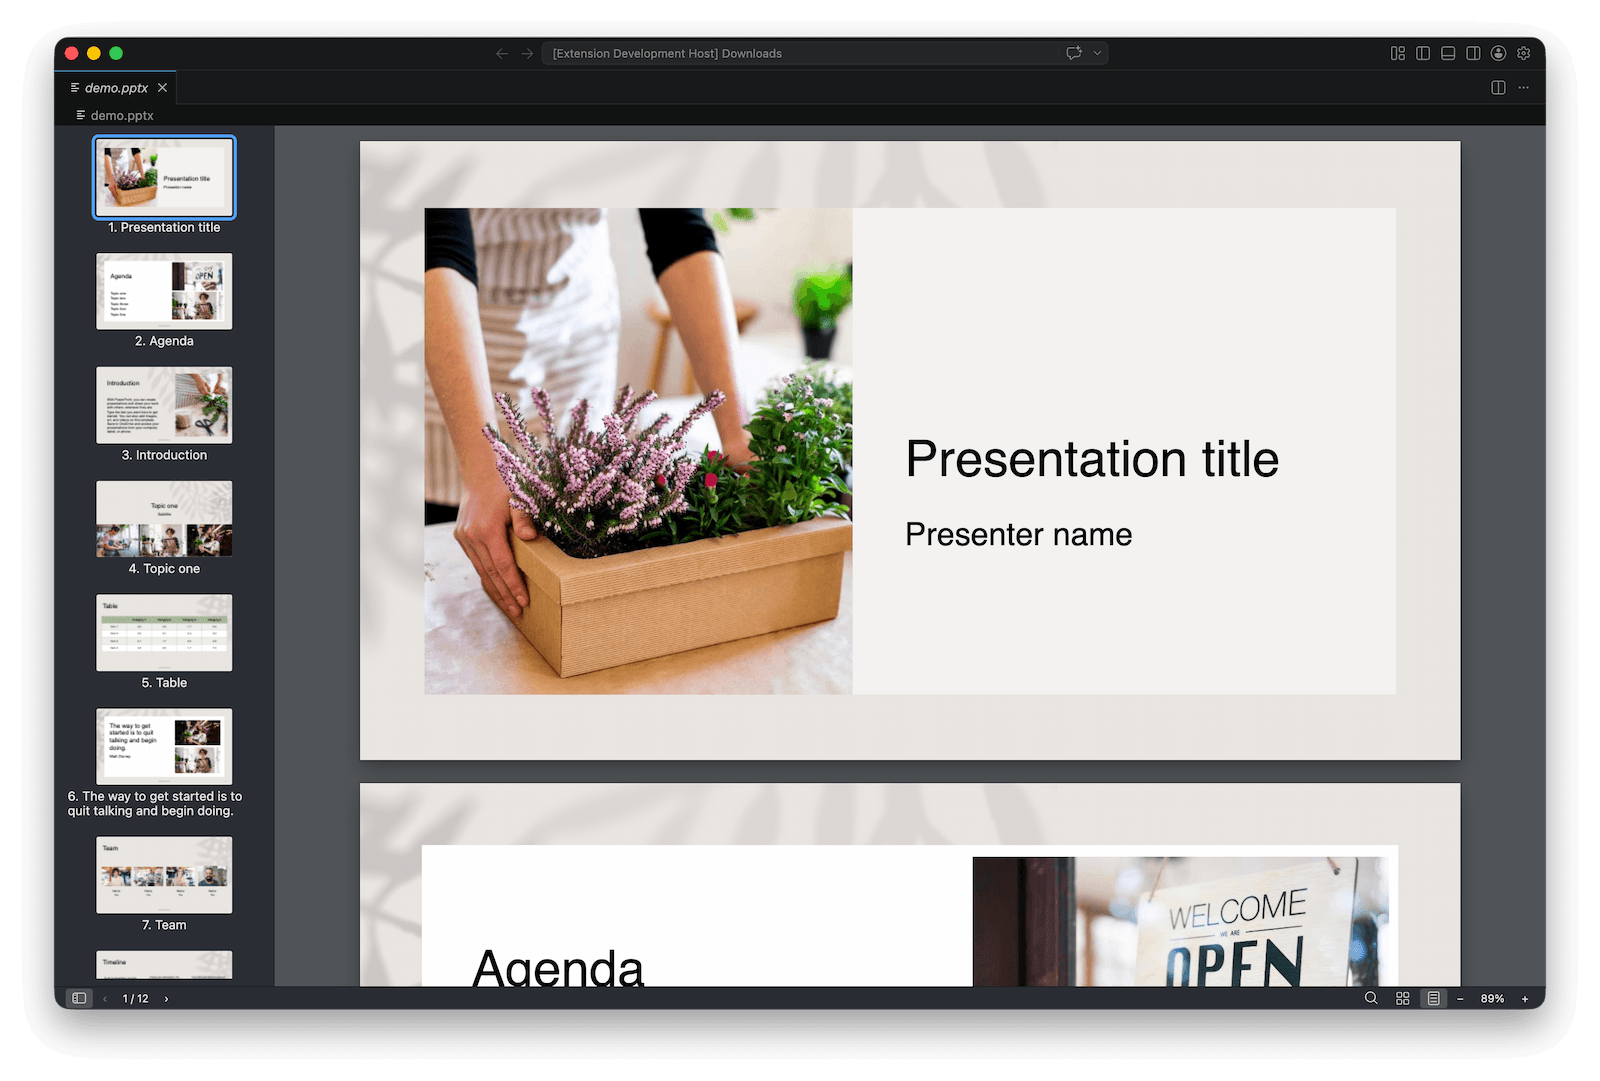
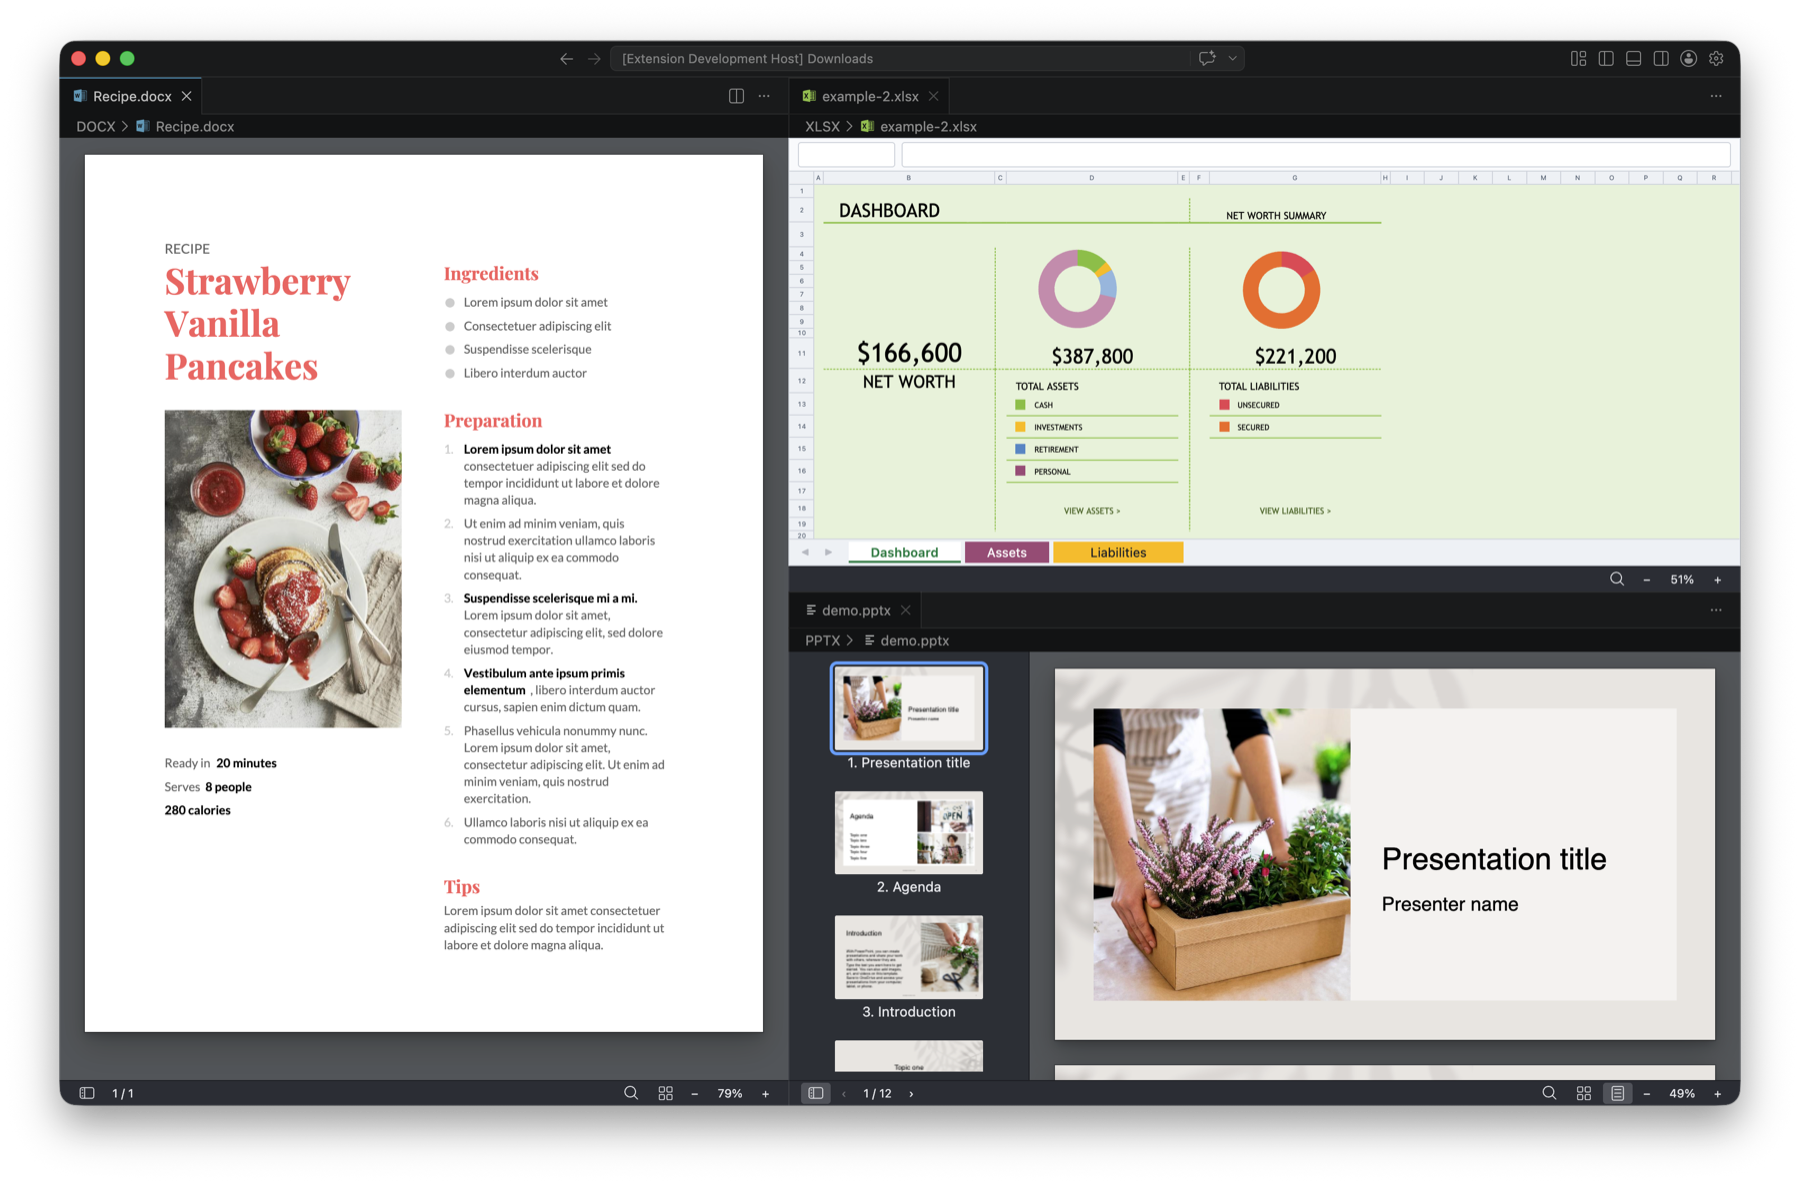
Update README with new image layouts and add DOCX/PPTX images

diff --git a/README.md b/README.md
@@ -60,9 +60,12 @@ Merged cells, frozen panes, conditional formatting (data bars, color scales, ico
 
 ## Smooth navigation
 
-<p align="center">
-  <img src="images/sidebar-outline.png" alt="Sidebar with page thumbnails and heading outline" />
-</p>
+<table>
+  <tr>
+    <td width="50%"><img src="images/pptx-pages.png" alt="Slide thumbnails sidebar in PowerPoint" /></td>
+    <td width="50%"><img src="images/docx-outline.png" alt="Heading outline sidebar in Word" /></td>
+  </tr>
+</table>
 
 - Toolbar with page navigation, jump-to-page, zoom in and out, and zoom presets (fit page, fit width, actual size, 50% to 400%).
 - Sidebar with page thumbnails and a clickable heading outline.
@@ -71,7 +74,7 @@ Merged cells, frozen panes, conditional formatting (data bars, color scales, ico
 ## Search anywhere
 
 <p align="center">
-  <img src="images/search.png" alt="Full-text search panel" />
+  <img src="images/docx-search.png" alt="Full-text search panel highlighting matches in a Word document" style="max-width: 960px;" />
 </p>
 
 Find text across every page or sheet with case-sensitive and whole-word options. Excel search can match either the displayed value or the underlying formula, and results include the cell address.